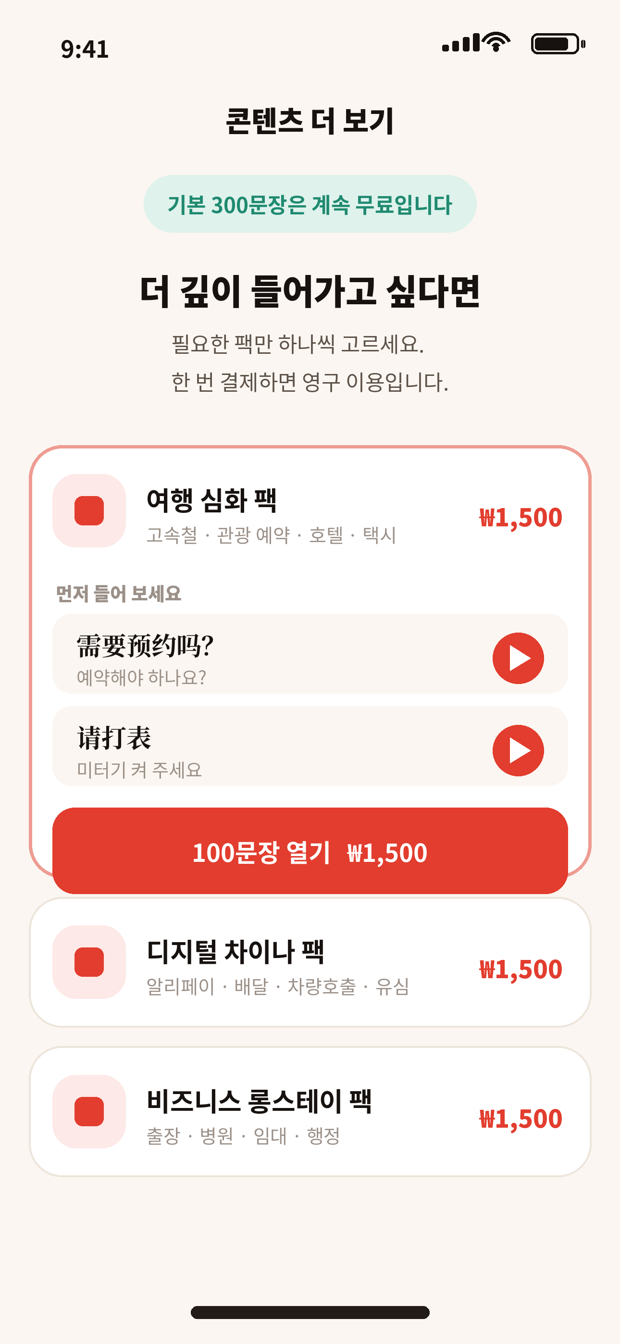
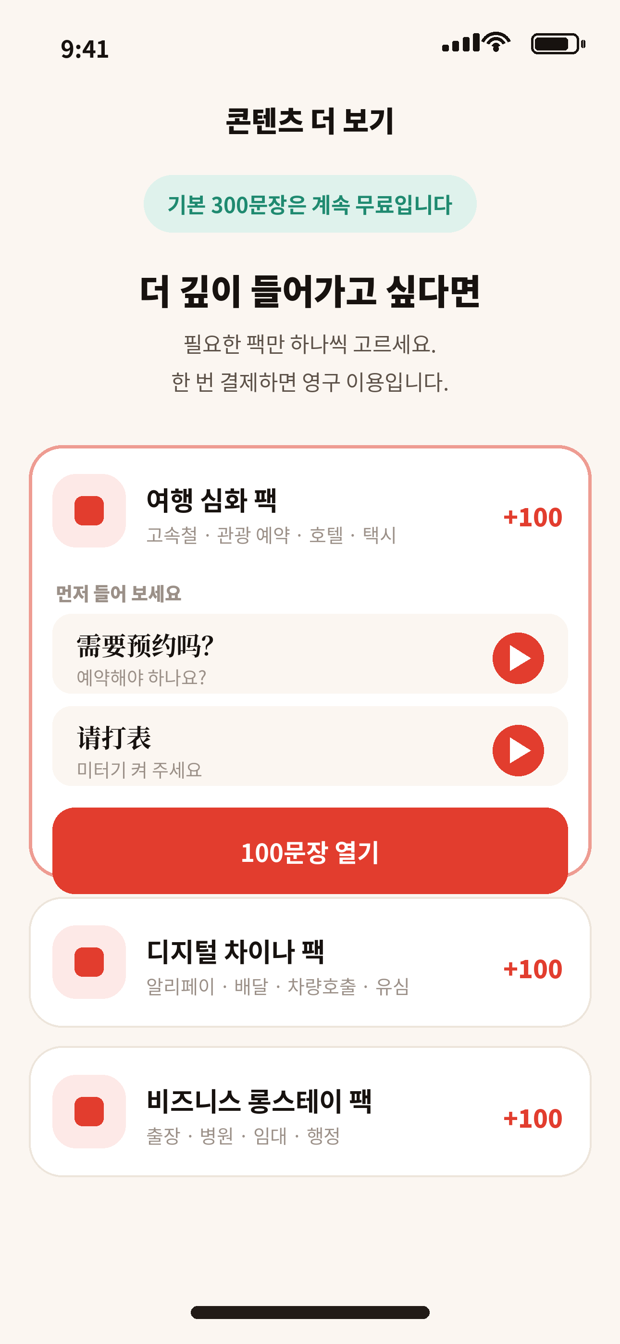
중국어 여행 홈페이지 일부 수정

diff --git a/chinese/index.html b/chinese/index.html
@@ -80,6 +80,8 @@ header.stuck{background:rgba(251,246,241,.86);backdrop-filter:blur(18px);
   color:var(--vd);background:rgba(226,61,46,.1);padding:8px 15px;border-radius:100px;
   margin-bottom:22px
 }
+.badge2{display:inline-block;font-size:12px;font-weight:900;letter-spacing:.16em;
+color:var(--v);margin-bottom:10px}
 .badge .dot{width:7px;height:7px;border-radius:50%;background:var(--v);animation:blink 2.2s ease-in-out infinite}
 @keyframes blink{0%,100%{opacity:1;transform:scale(1)}50%{opacity:.35;transform:scale(.75)}}
 h1{font-size:clamp(38px,6.2vw,66px);font-weight:900;line-height:1.14;letter-spacing:-.04em}
@@ -310,8 +312,9 @@ footer{background:var(--ink);color:#8D8078;padding:56px 0 44px;font-size:13px}
   <div class="wrap hero-grid">
     <div>
       <div class="badge rv on"><span class="dot"></span>2010 교육 카테고리 1위 · 15년 만의 리뉴얼</div>
+      <div class="badge2">혼자 하지 않습니다</div>
       <h1>중국어 하나도<br>몰라도 <span class="em">괜찮습니다</span></h1>
-      <p class="lede">발음 하나 모르는 상태에서 시작해, 중국에서 혼자 먹고 타고 자고 살 수 있는 만큼만 정확하게 담았습니다. 여행에서 실제로 벌어지는 순서 그대로 600문장.</p>
+      <p class="lede">혼자 외우다 지치는 게 아니라, 옆에서 순서를 잡아 주는 사람이 있으면 끝까지 갈 수 있습니다. <b>린(林) 선생님</b>이 오늘 무엇을 할지, 어디가 약한지, 언제 쉬어야 할지 봐 드립니다.</p>
       <div class="cta">
         <a class="appstore" href="https://apps.apple.com/kr/app/id387839696" aria-label="App Store에서 다운로드">
           <img src="assets/appstore-badge-ko.svg" alt="App Store에서 다운로드" width="180" height="60"
@@ -457,7 +460,7 @@ footer{background:var(--ink);color:#8D8078;padding:56px 0 44px;font-size:13px}
         <div class="n">100<small>문장</small></div>
         <p>자유여행이 길어질 때</p>
         <ul><li>고속철 예매 · 발권</li><li>예약제 관광지</li><li>호텔 문제 해결</li><li>택시 기사와의 대화</li></ul>
-        <div class="price">₩1,500</div>
+        <div class="price">₩2,200</div>
       </div>
       <div class="pack rv" data-d="2">
         <div class="tag">추가 팩</div>
@@ -465,7 +468,7 @@ footer{background:var(--ink);color:#8D8078;padding:56px 0 44px;font-size:13px}
         <div class="n">100<small>문장</small></div>
         <p>지금의 중국을 살아가려면</p>
         <ul><li>알리페이 · 위챗페이</li><li>배달앱 · 차량 호출</li><li>유심 개통 · 실명 등록</li><li>온라인 쇼핑 · 택배</li></ul>
-        <div class="price">₩1,500</div>
+        <div class="price">₩2,200</div>
       </div>
       <div class="pack rv" data-d="3">
         <div class="tag">추가 팩</div>
@@ -473,7 +476,7 @@ footer{background:var(--ink);color:#8D8078;padding:56px 0 44px;font-size:13px}
         <div class="n">100<small>문장</small></div>
         <p>출장과 체류를 위해</p>
         <ul><li>명함 · 미팅 · 협상</li><li>회식 자리 예절</li><li>병원 접수 · 증상 설명</li><li>임대 계약 · 비자 연장</li></ul>
-        <div class="price">₩1,500</div>
+        <div class="price">₩3,300</div>
       </div>
     </div>
   </div>
